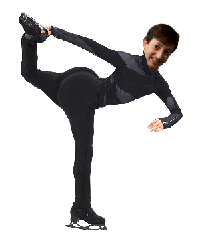
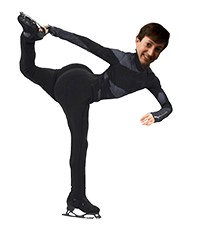
add animation

Changed region(s): [[0.06, 0.0311, 0.93, 0.9956], [0.12, 0.3422, 0.18, 0.3733]]

diff --git a/js/main.js b/js/main.js
@@ -3,9 +3,13 @@ document.body.appendChild(app.view);
 const loader = new PIXI.Loader(); // you can also create your own if you want
 
 loader.add('player', 'img/player.png');
+loader.add('player_2', 'img/player_2.png');
 
 var keys = [];
 var player = {
+	textures: [],
+	currentTexture: 0,
+	textureCounter: 0,
 	pV: 0,
 	speed: 0.2,
 	speedDamp: 0.98,
@@ -13,7 +17,8 @@ var player = {
 	rotateDamp: 0.95,
 	rV:0,
 	init: function(sprite) {
-		this.sprite = PIXI.Sprite.from(sprite);
+		this.textures = [loader.resources.player.texture, loader.resources.player_2.texture];
+		this.sprite = PIXI.Sprite.from(this.textures[this.currentTexture]);
 		app.stage.addChild(this.sprite);
 
 		this.sprite.pivot.set(this.sprite.width/2, this.sprite.height/2);
@@ -56,6 +61,17 @@ var player = {
 		this.sprite.y += Math.sin(this.sprite.rotation) * this.pV;
 
 		this.sprite.rotation += this.rV;
+
+		// Swap texture every 10 frames
+		if (Math.abs(this.pV) > 2) {
+			this.textureCounter++;
+			if (this.textureCounter > 10) {
+				this.currentTexture = (this.currentTexture == 0) ? 1 : 0;
+				this.sprite.texture = this.textures[this.currentTexture];
+
+				this.textureCounter = 0;
+			}
+		}
 	}
 }
 
